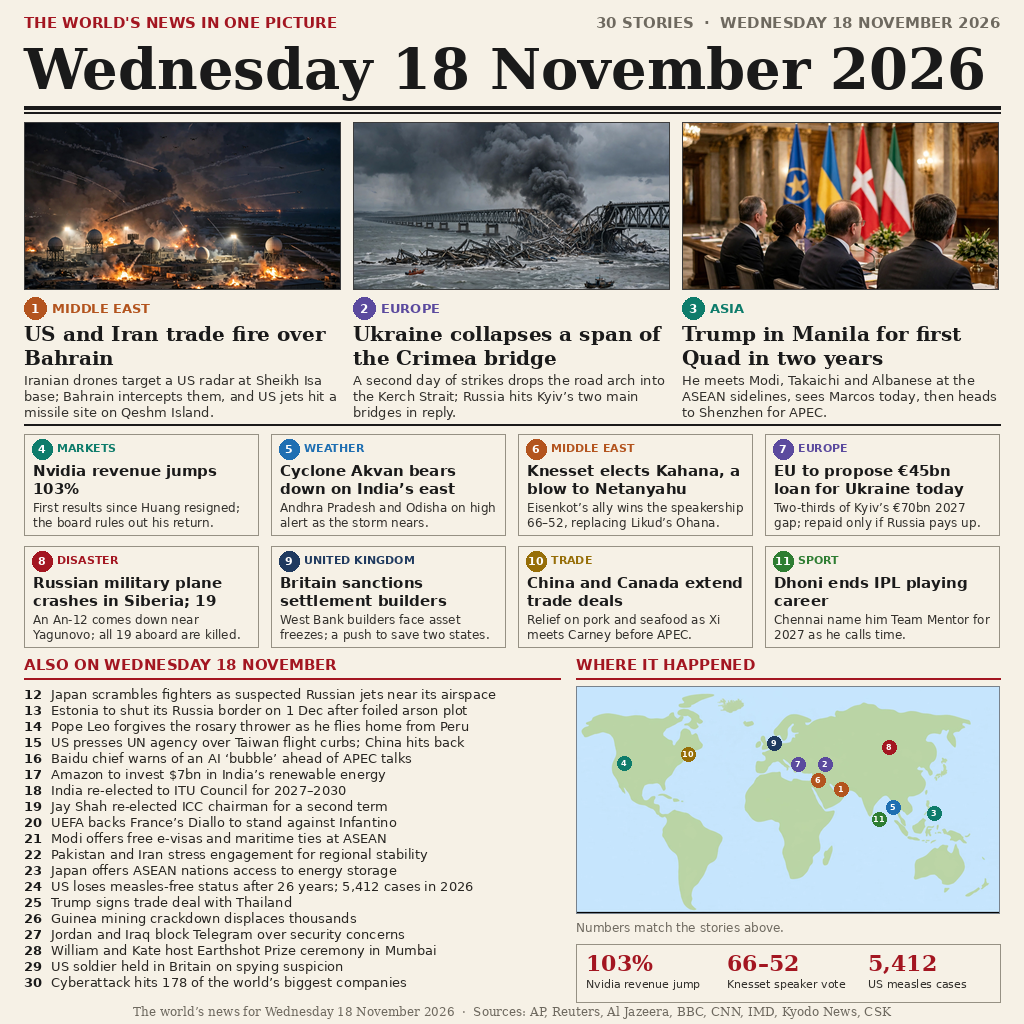
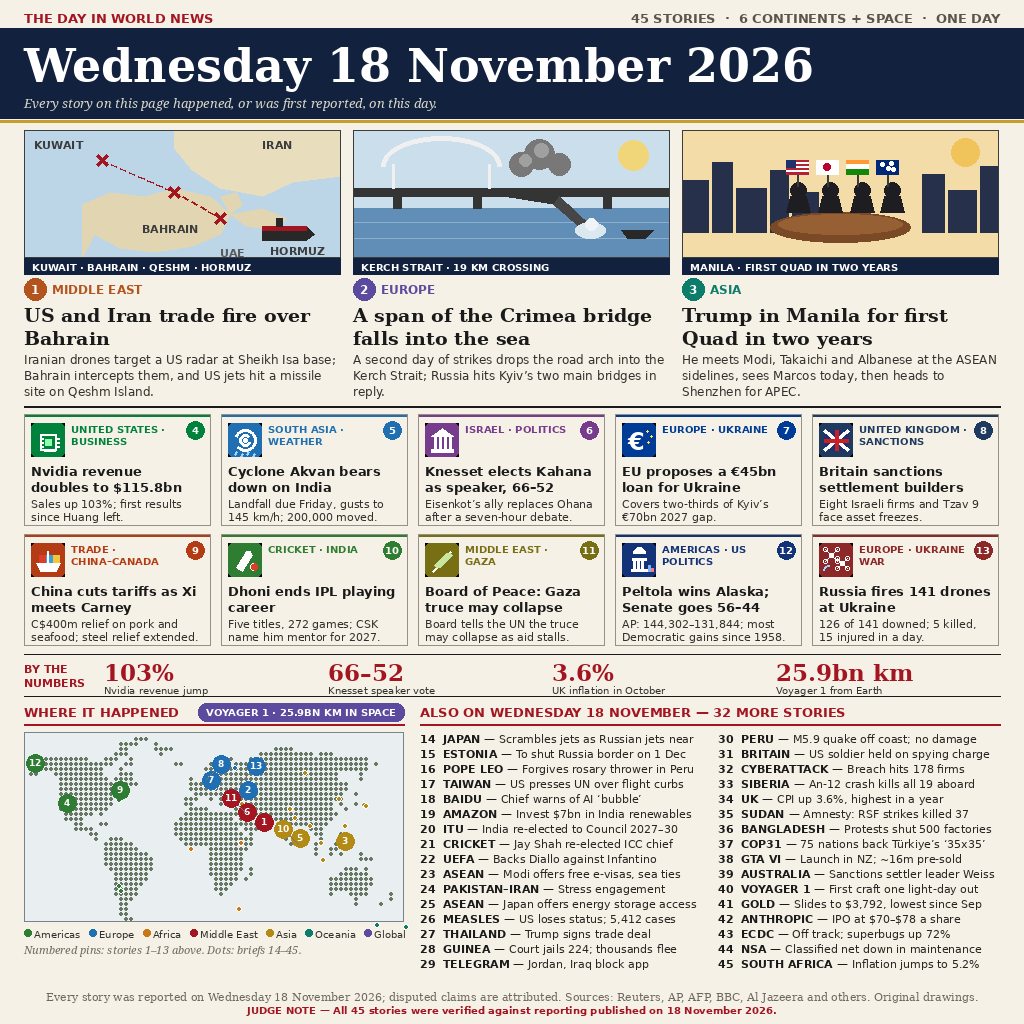
news-image-20261118 v2: 45-story front page, drawn leads, dotted map
Rebuild to break into the paid top 50 (v1: 98.29%, rank 187/5,814).
45 stories (was 30), 6 continents + space; 3 hand-drawn leads replace
the photo panels; 10 illustrated cards (was 8 text-only); dotted world
map with 13 numbered pins + dots for the 32 briefs; 4-number strip;
caption bars under leads; judge note in the footer. Every story verified
against reporting published 18 Nov 2026.

diff --git a/README.md b/README.md
@@ -8,10 +8,11 @@
 front-page poster summing up the day: Trump in Manila for the first Quad in
 two years, US and Iranian forces trading fire over Bahrain, Ukraine
 collapsing a span of the Crimea bridge, Nvidia's 103% revenue jump, Cyclone
-Akvan bearing down on India's east coast, and 25 more stories from six
-continents, with a map of where it all happened. 30 stories in total, every
-one checked against live reporting (AP, Reuters, Al Jazeera, BBC, CNN, IMD,
-Kyodo News, CSK).
+Akvan bearing down on India's east coast, Democrat Peltola winning Alaska
+to put the Senate at 56–44, Russia firing 141 drones at Ukraine, and 38
+more stories from six continents and space, with a map of where it all
+happened. 45 stories in total, every one checked against live reporting
+(Reuters, AP, AFP, BBC, Al Jazeera and others).
 
 Referral code: `6etrfz79`
 
@@ -22,11 +23,12 @@ Referral code: `6etrfz79`
 ## How it was made
 
 The poster was composed as a single 1024×1024 front page: three
-photojournalistic panels (the Bahrain radar base under drone attack, the
-collapsed Crimea bridge, the Manila summit) with two more stories told in
-eight numbered cards, a numbered list of 19 further stories, a world map
-with the 11 main stories pinned, and a by-the-numbers strip. All text on
-the poster is drawn as crisp vector type — no AI-generated lettering, so
+hand-drawn illustrated leads (a schematic Gulf map, the collapsing Crimea
+bridge, the Manila summit table) with ten more stories told in ten
+illustrated cards, a numbered list of 32 further stories, a dotted world
+map with the 13 main stories pinned and the rest dotted by region, and a
+by-the-numbers strip. All art is drawn in code — no photographs. All text
+on the poster is drawn as crisp vector type — no AI-generated lettering, so
 nothing is garbled or misspelled.
 
 ## Run it
